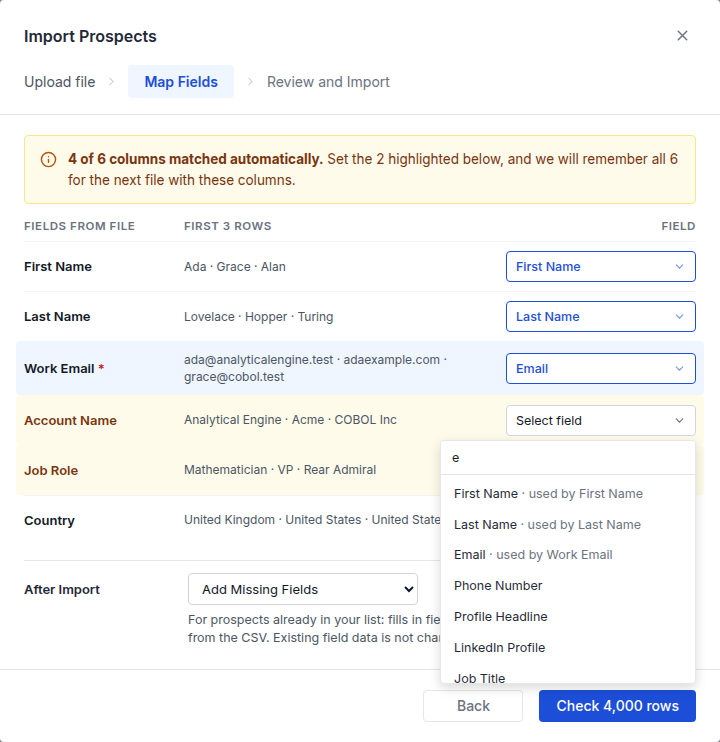
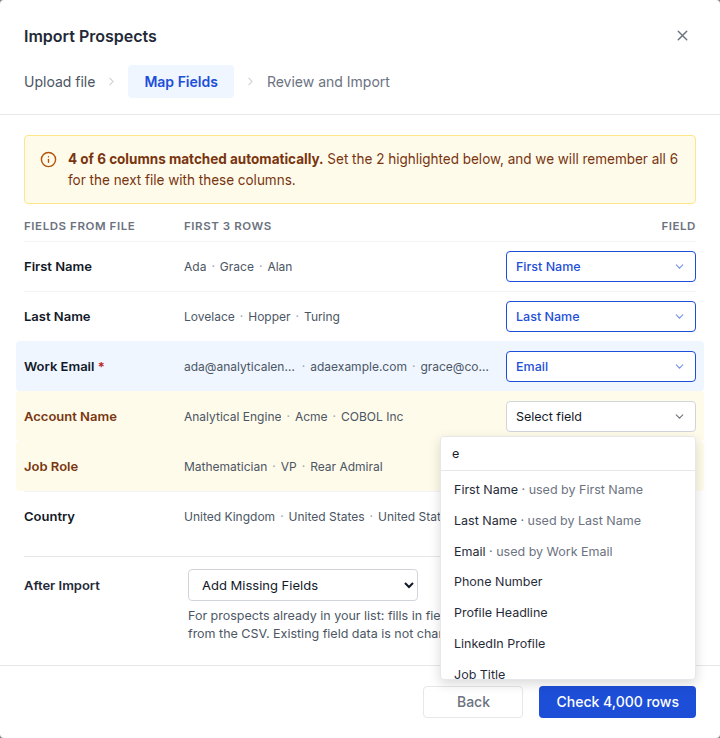
Map Fields: sample values stay on one line, each truncating on its own

diff --git a/index.html b/index.html
@@ -61,7 +61,7 @@ td{padding:9px 12px;border-bottom:1px solid var(--border);vertical-align:top}tr:
 <p>Exact copy for every state below: <a href="#copy-spec">COPY.md</a>, same section numbers; every string rendered on its surface in <a href="copy.html">copy.html</a>.</p>
 <p><strong>5.1 Upload.</strong> An accepted file shows as one line (name, rows, columns, Remove file) over its first 3 rows under the file's own headers, exactly as read, so the user sees the wrong file or a bad parse before mapping (Hitesh, 11 Nov). Values wider than a cell truncate, full value on hover; a table wider than the dialog scrolls sideways and the caption says so. A rejected file shows, centred in the drop zone, the file name, what is wrong and one sentence on the fix; the zone stays live for the fixed file (Hitesh, 11 Nov). Eleven kinds: Excel, other type or no extension, over 95 MB, over 100,000 rows, over 120 columns, no prospects, repeated column names, columns with no name, mixed separators, not UTF-8, unreadable. Messages carry only what the check knows: no row totals, header names or column positions. Next stays disabled; no toasts or "Oops!". The checks that today fail only after Import (mixed separators, leading empty line, upper-case <code>.CSV</code>) move here.</p>
 <div class="gal"><figure><a href="canvas/shots/u01.png" target="_blank" rel="noopener"><img src="canvas/shots/u01.png" alt="Upload" loading="lazy"></a><figcaption><b>Upload</b><span>Drop zone; Try sample file in the footer</span></figcaption></figure><figure><a href="canvas/shots/u02.png" target="_blank" rel="noopener"><img src="canvas/shots/u02.png" alt="File accepted" loading="lazy"></a><figcaption><b>File accepted</b><span>One file line, then its first 3 rows as read; Next enabled</span></figcaption></figure><figure><a href="canvas/shots/u03.png" target="_blank" rel="noopener"><img src="canvas/shots/u03.png" alt="Excel file" loading="lazy"></a><figcaption><b>Excel file</b><span>Says only what the check knows; the drop zone stays live</span></figcaption></figure><figure><a href="canvas/shots/u04.png" target="_blank" rel="noopener"><img src="canvas/shots/u04.png" alt="Wrong file type" loading="lazy"></a><figcaption><b>Wrong file type</b></figcaption></figure><figure><a href="canvas/shots/u05.png" target="_blank" rel="noopener"><img src="canvas/shots/u05.png" alt="Over 95 MB" loading="lazy"></a><figcaption><b>Over 95 MB</b></figcaption></figure><figure><a href="canvas/shots/u06.png" target="_blank" rel="noopener"><img src="canvas/shots/u06.png" alt="Over 100,000 rows" loading="lazy"></a><figcaption><b>Over 100,000 rows</b></figcaption></figure><figure><a href="canvas/shots/u07.png" target="_blank" rel="noopener"><img src="canvas/shots/u07.png" alt="Over 120 columns" loading="lazy"></a><figcaption><b>Over 120 columns</b></figcaption></figure><figure><a href="canvas/shots/u08.png" target="_blank" rel="noopener"><img src="canvas/shots/u08.png" alt="No prospects" loading="lazy"></a><figcaption><b>No prospects</b></figcaption></figure><figure><a href="canvas/shots/u09.png" target="_blank" rel="noopener"><img src="canvas/shots/u09.png" alt="Repeated column names" loading="lazy"></a><figcaption><b>Repeated column names</b></figcaption></figure><figure><a href="canvas/shots/u10.png" target="_blank" rel="noopener"><img src="canvas/shots/u10.png" alt="Columns with no name" loading="lazy"></a><figcaption><b>Columns with no name</b></figcaption></figure><figure><a href="canvas/shots/u11.png" target="_blank" rel="noopener"><img src="canvas/shots/u11.png" alt="Mixed separators" loading="lazy"></a><figcaption><b>Mixed separators</b></figcaption></figure><figure><a href="canvas/shots/u12.png" target="_blank" rel="noopener"><img src="canvas/shots/u12.png" alt="Not UTF-8" loading="lazy"></a><figcaption><b>Not UTF-8</b></figcaption></figure><figure><a href="canvas/shots/u13.png" target="_blank" rel="noopener"><img src="canvas/shots/u13.png" alt="Can’t be read" loading="lazy"></a><figcaption><b>Can’t be read</b></figcaption></figure><figure><a href="canvas/shots/u14.png" target="_blank" rel="noopener"><img src="canvas/shots/u14.png" alt="Fixed file brought back" loading="lazy"></a><figcaption><b>Fixed file brought back</b><span>Mapping restored; Check 280 rows skips Map Fields</span></figcaption></figure></div>
-<p><strong>5.2 Map Fields.</strong> Email required; if unmapped, say so and disable Next. After Import below the fields, production's four options verbatim. One column per field (picking a used field moves it and says so). Cancel, Esc or close keeps the mapping. The mapping is remembered by the set of headers, account-wide. Our three columns come back as Don't import.</p>
+<p><strong>5.2 Map Fields.</strong> Email required; if unmapped, say so and disable Next. After Import below the fields, production's four options verbatim. One column per field (picking a used field moves it and says so). Each column shows its first 3 values on one line: a long value truncates on its own, a value of 14 characters or fewer is never cut, and the full value shows on hover (Hitesh, 11 Nov). Cancel, Esc or close keeps the mapping. The mapping is remembered by the set of headers, account-wide. Our three columns come back as Don't import.</p>
 <div class="gal"><figure><a href="canvas/shots/m01.png" target="_blank" rel="noopener"><img src="canvas/shots/m01.png" alt="Columns to set" loading="lazy"></a><figcaption><b>Columns to set</b><span>Two columns highlighted; After Import below</span></figcaption></figure><figure><a href="canvas/shots/m02.png" target="_blank" rel="noopener"><img src="canvas/shots/m02.png" alt="Everything matched" loading="lazy"></a><figcaption><b>Everything matched</b><span>Nothing to set</span></figcaption></figure><figure><a href="canvas/shots/m03.png" target="_blank" rel="noopener"><img src="canvas/shots/m03.png" alt="Mapping restored" loading="lazy"></a><figcaption><b>Mapping restored</b><span>Same columns as last time; our three columns set to Don’t import</span></figcaption></figure><figure><a href="canvas/shots/m04.png" target="_blank" rel="noopener"><img src="canvas/shots/m04.png" alt="Field picker" loading="lazy"></a><figcaption><b>Field picker</b><span>Search, and fields already used by another column</span></figcaption></figure><figure><a href="canvas/shots/m05.png" target="_blank" rel="noopener"><img src="canvas/shots/m05.png" alt="A field moved" loading="lazy"></a><figcaption><b>A field moved</b><span>One column per field: the earlier column is set aside, and the screen says so</span></figcaption></figure><figure><a href="canvas/shots/m06.png" target="_blank" rel="noopener"><img src="canvas/shots/m06.png" alt="Email not mapped" loading="lazy"></a><figcaption><b>Email not mapped</b><span>Next disabled until a column is set to Email</span></figcaption></figure><figure><a href="canvas/shots/m07.png" target="_blank" rel="noopener"><img src="canvas/shots/m07.png" alt="No email column" loading="lazy"></a><figcaption><b>No email column</b><span>Said plainly; Next disabled</span></figcaption></figure><figure><a href="canvas/shots/m08.png" target="_blank" rel="noopener"><img src="canvas/shots/m08.png" alt="After Import: Update All Fields" loading="lazy"></a><figcaption><b>After Import: Update All Fields</b><span>Production label and text, shown under the select</span></figcaption></figure><figure><a href="canvas/shots/m09.png" target="_blank" rel="noopener"><img src="canvas/shots/m09.png" alt="After Import: Overwrite" loading="lazy"></a><figcaption><b>After Import: Overwrite</b></figcaption></figure><figure><a href="canvas/shots/m10.png" target="_blank" rel="noopener"><img src="canvas/shots/m10.png" alt="After Import: Skip Existing Prospects" loading="lazy"></a><figcaption><b>After Import: Skip Existing Prospects</b></figcaption></figure></div>
 <p><strong>5.3 Checking.</strong> Progress in rows; "Nothing has been imported yet"; one Cancel.</p>
 <div class="gal"><figure><a href="canvas/shots/c01.png" target="_blank" rel="noopener"><img src="canvas/shots/c01.png" alt="Checking every row" loading="lazy"></a><figcaption><b>Checking every row</b><span>Nothing imported yet; one Cancel</span></figcaption></figure></div>
@@ -79,7 +79,7 @@ td{padding:9px 12px;border-bottom:1px solid var(--border);vertical-align:top}tr:
 <p><strong>5.9 Bringing a file back.</strong> Headers match a confirmed mapping, every column decided, Email mapped: Upload says "Mapping restored" and Next becomes "Check {rows} rows", skipping Map Fields.</p>
 <div class="gal"><figure><a href="canvas/shots/u14.png" target="_blank" rel="noopener"><img src="canvas/shots/u14.png" alt="Fixed file brought back" loading="lazy"></a><figcaption><b>Fixed file brought back</b><span>Mapping restored; Check 280 rows skips Map Fields</span></figcaption></figure><figure><a href="canvas/shots/m03.png" target="_blank" rel="noopener"><img src="canvas/shots/m03.png" alt="Mapping restored" loading="lazy"></a><figcaption><b>Mapping restored</b><span>Same columns as last time; our three columns set to Don’t import</span></figcaption></figure></div>
 <h3 id="acceptance-criteria">Acceptance criteria</h3>
-<div class="tw"><table><thead><tr><th>ID</th><th>Case</th><th>Expected</th><th>P</th></tr></thead><tbody><tr><td>A1</td><td>Upload each of the 11 rejected kinds in COPY.md §5.1</td><td>Rejected in the drop zone with its §5.1 title and fix; no row total, header name or column letter appears; the zone accepts the next file; Next disabled; no toast</td><td>P0</td></tr><tr><td>A2</td><td>No column mapped to Email; a file with no email column</td><td>§5.2 message; Next disabled</td><td>P0</td></tr><tr><td>A3</td><td>4,000 rows: 220 no @, 40 blank, 20 two emails, 160 existing, 20 repeated</td><td>Review: 3,540 new; 160 existing with the option's outcome; 20 repeated; red row "280 rows need fixing" with three reasons; button "Import 3,540 new prospects"</td><td>P0</td></tr><tr><td>A4</td><td>A3 under each After Import option</td><td>Review, toast and bell use that option's words; 3 of the 160 read back in the list match it</td><td>P0</td></tr><tr><td>A5</td><td>Download from A3</td><td>280 lines; header <code>row_number,error,how_to_fix,</code> + original headers; only the 19 names; blank-email rows present; row numbers match Excel</td><td>P0</td></tr><tr><td>A6</td><td>Open A5 in LibreOffice with tab, <code>;</code> and <code>,</code> separators</td><td>Every row has the same column count</td><td>P0</td></tr><tr><td>A7</td><td>Upload A5 back, import under a plan limit, download again</td><td>Mapping restored; one set of our columns; original row numbers; name not doubled</td><td>P0</td></tr><tr><td>A8</td><td>Room for 2,500; A3's file</td><td>Review: plan row amber with Upgrade plan, fix row red. Import: 2,500 added; 1,040 "Over plan limit" lines, new prospects only, numbers within the file</td><td>P1</td></tr><tr><td>A9</td><td>Import fails; another import running; plan limit reached between Review and Import</td><td>Dialog stays on Review with the matching message; file and mapping kept; busy known before Import; nothing imported</td><td>P0</td></tr><tr><td>A10</td><td>Every row fails</td><td>"0 of {rows}"; Download primary, Upload fixed file on the left; dominant-reason hint over 50%</td><td>P1</td></tr><tr><td>A11</td><td>Credits short</td><td>Credit message with numbers; Import disabled until unticked or topped up; no link to change the 15 days</td><td>P1</td></tr><tr><td>A12</td><td>Force a batch to fail mid-import</td><td>Its rows in the file as "Didn't finish"; strip, bell and email count them</td><td>P0, <strong>sign off by name: Rajat</strong></td></tr><tr><td>A13</td><td>Invalid phone on a new prospect</td><td>Imported, phone blank, "Phone not valid" line</td><td>P1</td></tr><tr><td>A14</td><td>Sequence import: other sequence, bounced, unsubscribed, DNC</td><td>Each in the file under errors 13 to 18</td><td>P1</td></tr><tr><td>A15</td><td>Email for a partial and a fully failed import</td><td>Real counts; never "Congratulations"</td><td>P1</td></tr><tr><td>A16</td><td>Keyboard only through the wizard</td><td>§7 rules hold; failures and the strip are announced</td><td>P1</td></tr><tr><td>A17</td><td>390px wide</td><td>Map rows stack; no sideways scroll; footer buttons full width, primary last; toast never covers the footer</td><td>P1</td></tr><tr><td>A18</td><td>Every footer at 1440px</td><td>Gray secondary left of primary, 16px apart; Back on Map and Review, Cancel on Upload</td><td>P2</td></tr><tr><td>A19</td><td>Map two columns to Email</td><td>Second pick moves it and says so</td><td>P1</td></tr><tr><td>A20</td><td>Sequence import with a call and a LinkedIn step, no phone or LinkedIn column</td><td>Map Fields warns naming both fields and steps; Next stays enabled; mapping a phone column drops the call step from the warning; Review shows no unmapped-field row</td><td>P1</td></tr><tr><td>A21</td><td>Sequence import, prospects in another sequence, admin setting off</td><td>Counted on Review before Import; "In another sequence" in the file; toast counts only those added</td><td>P0</td></tr><tr><td>A22</td><td>Upload the fixed file from A5</td><td>"Mapping restored"; "Check {rows} rows" lands on Review without Map Fields</td><td>P1</td></tr><tr><td>A23</td><td>Upload a valid 6-column and an 18-column file</td><td>One file line, then the first 3 rows under the file's headers as read; long values truncate with the full value on hover; "scroll sideways" shows only when the table is wider than the dialog</td><td>P1</td></tr></tbody></table></div>
+<div class="tw"><table><thead><tr><th>ID</th><th>Case</th><th>Expected</th><th>P</th></tr></thead><tbody><tr><td>A1</td><td>Upload each of the 11 rejected kinds in COPY.md §5.1</td><td>Rejected in the drop zone with its §5.1 title and fix; no row total, header name or column letter appears; the zone accepts the next file; Next disabled; no toast</td><td>P0</td></tr><tr><td>A2</td><td>No column mapped to Email; a file with no email column</td><td>§5.2 message; Next disabled</td><td>P0</td></tr><tr><td>A3</td><td>4,000 rows: 220 no @, 40 blank, 20 two emails, 160 existing, 20 repeated</td><td>Review: 3,540 new; 160 existing with the option's outcome; 20 repeated; red row "280 rows need fixing" with three reasons; button "Import 3,540 new prospects"</td><td>P0</td></tr><tr><td>A4</td><td>A3 under each After Import option</td><td>Review, toast and bell use that option's words; 3 of the 160 read back in the list match it</td><td>P0</td></tr><tr><td>A5</td><td>Download from A3</td><td>280 lines; header <code>row_number,error,how_to_fix,</code> + original headers; only the 19 names; blank-email rows present; row numbers match Excel</td><td>P0</td></tr><tr><td>A6</td><td>Open A5 in LibreOffice with tab, <code>;</code> and <code>,</code> separators</td><td>Every row has the same column count</td><td>P0</td></tr><tr><td>A7</td><td>Upload A5 back, import under a plan limit, download again</td><td>Mapping restored; one set of our columns; original row numbers; name not doubled</td><td>P0</td></tr><tr><td>A8</td><td>Room for 2,500; A3's file</td><td>Review: plan row amber with Upgrade plan, fix row red. Import: 2,500 added; 1,040 "Over plan limit" lines, new prospects only, numbers within the file</td><td>P1</td></tr><tr><td>A9</td><td>Import fails; another import running; plan limit reached between Review and Import</td><td>Dialog stays on Review with the matching message; file and mapping kept; busy known before Import; nothing imported</td><td>P0</td></tr><tr><td>A10</td><td>Every row fails</td><td>"0 of {rows}"; Download primary, Upload fixed file on the left; dominant-reason hint over 50%</td><td>P1</td></tr><tr><td>A11</td><td>Credits short</td><td>Credit message with numbers; Import disabled until unticked or topped up; no link to change the 15 days</td><td>P1</td></tr><tr><td>A12</td><td>Force a batch to fail mid-import</td><td>Its rows in the file as "Didn't finish"; strip, bell and email count them</td><td>P0, <strong>sign off by name: Rajat</strong></td></tr><tr><td>A13</td><td>Invalid phone on a new prospect</td><td>Imported, phone blank, "Phone not valid" line</td><td>P1</td></tr><tr><td>A14</td><td>Sequence import: other sequence, bounced, unsubscribed, DNC</td><td>Each in the file under errors 13 to 18</td><td>P1</td></tr><tr><td>A15</td><td>Email for a partial and a fully failed import</td><td>Real counts; never "Congratulations"</td><td>P1</td></tr><tr><td>A16</td><td>Keyboard only through the wizard</td><td>§7 rules hold; failures and the strip are announced</td><td>P1</td></tr><tr><td>A17</td><td>390px wide</td><td>Map rows stack; no sideways scroll; footer buttons full width, primary last; toast never covers the footer</td><td>P1</td></tr><tr><td>A18</td><td>Every footer at 1440px</td><td>Gray secondary left of primary, 16px apart; Back on Map and Review, Cancel on Upload</td><td>P2</td></tr><tr><td>A19</td><td>Map two columns to Email</td><td>Second pick moves it and says so</td><td>P1</td></tr><tr><td>A20</td><td>Sequence import with a call and a LinkedIn step, no phone or LinkedIn column</td><td>Map Fields warns naming both fields and steps; Next stays enabled; mapping a phone column drops the call step from the warning; Review shows no unmapped-field row</td><td>P1</td></tr><tr><td>A21</td><td>Sequence import, prospects in another sequence, admin setting off</td><td>Counted on Review before Import; "In another sequence" in the file; toast counts only those added</td><td>P0</td></tr><tr><td>A22</td><td>Upload the fixed file from A5</td><td>"Mapping restored"; "Check {rows} rows" lands on Review without Map Fields</td><td>P1</td></tr><tr><td>A23</td><td>Upload a valid 6-column and an 18-column file</td><td>One file line, then the first 3 rows under the file's headers as read; long values truncate with the full value on hover; "scroll sideways" shows only when the table is wider than the dialog</td><td>P1</td></tr><tr><td>A24</td><td>Map a file whose first rows hold a 70-character company name and a 120-character note</td><td>Every column row stays one line; long values end in "…", values of 14 characters or fewer are whole; hovering a value shows it in full</td><td>P2</td></tr></tbody></table></div>
 <h2 id="6-reconciliation-with-existing-behaviour">6. Reconciliation with existing behaviour</h2>
 <div class="tw"><table><thead><tr><th>Path</th><th>Today</th><th>After</th></tr></thead><tbody><tr><td>CRM list › Import CSV (<code>/contacts/import-async</code>)</td><td>Two-column report</td><td>This PRD</td></tr><tr><td>Sequence › Import via CSV (<code>/contacts/sequence-async/:stepId</code>)</td><td>Same report, picker on Map Fields</td><td>This PRD, §5.8</td></tr><tr><td>Public API import</td><td>7 reasons have no status code; <code>status</code> comes back undefined (<a href="https://github.com/saleshandy/saleshandy-open-api-gateway/blob/3561cf80b480bb48cf0670c22a9c7f977012a4fc/src/common/enums/prospect-import-failed-reason.ts#L1">gateway</a>)</td><td>Add the missing codes; copy out of scope</td></tr><tr><td>Lead Finder bulk add</td><td>Shares the import service</td><td>Must not change</td></tr></tbody></table></div>
 <ul><li><strong>Overwrite</strong> writes only fields the prospect already has; production's description says so and stays verbatim. No behaviour change.</li><li>Repeats are caught only within a 1,000-row chunk (<a href="https://github.com/saleshandy/saleshandy-background-jobs/blob/7d18274f935ac261db9fa538aa3afe3d72d6894c/src/contacts/services/contacts-import.service.ts#L2534">L2534</a>); the import must match the pre-import check over the whole file, or counts drift.</li></ul>

diff --git a/prototype/index.html b/prototype/index.html
@@ -119,7 +119,10 @@ table.crm td{padding:11px 24px;border-bottom:1px solid var(--g-100);color:var(--
 .maprow.req{background:var(--blue-50);margin:0 -8px;padding-left:8px;padding-right:8px;border-radius:var(--r-input);border-top-color:transparent}
 .maprow.bad{background:var(--red-50);margin:0 -8px;padding-left:8px;padding-right:8px;border-radius:var(--r-input);border-top-color:transparent}
 .maprow .f{flex:0 0 150px;font-size:13px;font-weight:600}
-.maprow .s{flex:1;font-size:12px;color:var(--g-600);line-height:1.45;word-break:break-word}
+.maprow .s{flex:1;min-width:0;display:flex;font-size:12px;color:var(--g-600);line-height:1.45;white-space:nowrap}
+/* Long sample values (Hitesh, 11 Nov): one line per row; each value truncates on its own, values of 14 characters or fewer are never cut; full value on hover. */
+.maprow .s .v{flex:0 1 auto;min-width:0;max-width:55%;overflow:hidden;text-overflow:ellipsis}.maprow .s .v.k{flex-shrink:0}
+.maprow .s .d{flex:0 0 auto;padding:0 5px;color:var(--g-400)}
 .maprow select{flex:0 0 138px;font-family:inherit;font-size:12.5px;padding:7px 8px;border:1px solid var(--g-300);border-radius:var(--r-input);background:#fff;color:var(--g-900)}
 .maprow select.set{border-color:var(--blue-700);color:var(--blue-700);font-weight:500}
 .maprow select.err{border-color:var(--red-700);color:var(--red-700)}
@@ -1079,7 +1082,7 @@ function scMap(){
     var isEmail = S.map[c]==='Email';
     var cls = 'maprow'+(isEmail?' req':(todo.indexOf(c)>-1?' todo':''));
     return '<div class="'+cls+'"><span class="f">'+esc(c)+(isEmail?' <span style="color:var(--red-700)">*</span>':'')+'</span>'+
-      '<span class="s">'+d.samples[i].map(esc).join(' &middot; ')+'</span>'+fpick(c,i)+'</div>';
+      '<span class="s">'+d.samples[i].map(function(v){ v=v==null?'':String(v); return '<span class="v'+(v.length<=14?' k':'')+'" title="'+esc(v)+'">'+esc(v)+'</span>'; }).join('<span class="d" aria-hidden="true">·</span>')+'</span>'+fpick(c,i)+'</div>';
   }).join('');
 
   /* The header line is the whole point of this step: say how much is already

diff --git a/copy.html b/copy.html
@@ -116,7 +116,10 @@ table.crm td{padding:11px 24px;border-bottom:1px solid var(--g-100);color:var(--
 .maprow.req{background:var(--blue-50);margin:0 -8px;padding-left:8px;padding-right:8px;border-radius:var(--r-input);border-top-color:transparent}
 .maprow.bad{background:var(--red-50);margin:0 -8px;padding-left:8px;padding-right:8px;border-radius:var(--r-input);border-top-color:transparent}
 .maprow .f{flex:0 0 150px;font-size:13px;font-weight:600}
-.maprow .s{flex:1;font-size:12px;color:var(--g-600);line-height:1.45;word-break:break-word}
+.maprow .s{flex:1;min-width:0;display:flex;font-size:12px;color:var(--g-600);line-height:1.45;white-space:nowrap}
+/* Long sample values (Hitesh, 11 Nov): one line per row; each value truncates on its own, values of 14 characters or fewer are never cut; full value on hover. */
+.maprow .s .v{flex:0 1 auto;min-width:0;max-width:55%;overflow:hidden;text-overflow:ellipsis}.maprow .s .v.k{flex-shrink:0}
+.maprow .s .d{flex:0 0 auto;padding:0 5px;color:var(--g-400)}
 .maprow select{flex:0 0 138px;font-family:inherit;font-size:12.5px;padding:7px 8px;border:1px solid var(--g-300);border-radius:var(--r-input);background:#fff;color:var(--g-900)}
 .maprow select.set{border-color:var(--blue-700);color:var(--blue-700);font-weight:500}
 .maprow select.err{border-color:var(--red-700);color:var(--red-700)}

diff --git a/PRD.md b/PRD.md
@@ -51,7 +51,7 @@ Exact copy for every state below: [COPY.md](COPY.md), same section numbers; ever
 
 <table><tr><td valign="top" width="33%"><a href="canvas/shots/u01.png"><img src="canvas/shots/u01.png" width="260"></a><br><sub><b>Upload</b>. Drop zone; Try sample file in the footer</sub></td><td valign="top" width="33%"><a href="canvas/shots/u02.png"><img src="canvas/shots/u02.png" width="260"></a><br><sub><b>File accepted</b>. One file line, then its first 3 rows as read; Next enabled</sub></td><td valign="top" width="33%"><a href="canvas/shots/u03.png"><img src="canvas/shots/u03.png" width="260"></a><br><sub><b>Excel file</b>. Says only what the check knows; the drop zone stays live</sub></td></tr><tr><td valign="top" width="33%"><a href="canvas/shots/u04.png"><img src="canvas/shots/u04.png" width="260"></a><br><sub><b>Wrong file type</b>. Says only what the check knows; the drop zone stays live</sub></td><td valign="top" width="33%"><a href="canvas/shots/u05.png"><img src="canvas/shots/u05.png" width="260"></a><br><sub><b>Over 95 MB</b>. Says only what the check knows; the drop zone stays live</sub></td><td valign="top" width="33%"><a href="canvas/shots/u06.png"><img src="canvas/shots/u06.png" width="260"></a><br><sub><b>Over 100,000 rows</b>. Says only what the check knows; the drop zone stays live</sub></td></tr><tr><td valign="top" width="33%"><a href="canvas/shots/u07.png"><img src="canvas/shots/u07.png" width="260"></a><br><sub><b>Over 120 columns</b>. Says only what the check knows; the drop zone stays live</sub></td><td valign="top" width="33%"><a href="canvas/shots/u08.png"><img src="canvas/shots/u08.png" width="260"></a><br><sub><b>No prospects</b>. Says only what the check knows; the drop zone stays live</sub></td><td valign="top" width="33%"><a href="canvas/shots/u09.png"><img src="canvas/shots/u09.png" width="260"></a><br><sub><b>Repeated column names</b>. Says only what the check knows; the drop zone stays live</sub></td></tr><tr><td valign="top" width="33%"><a href="canvas/shots/u10.png"><img src="canvas/shots/u10.png" width="260"></a><br><sub><b>Columns with no name</b>. Says only what the check knows; the drop zone stays live</sub></td><td valign="top" width="33%"><a href="canvas/shots/u11.png"><img src="canvas/shots/u11.png" width="260"></a><br><sub><b>Mixed separators</b>. Says only what the check knows; the drop zone stays live</sub></td><td valign="top" width="33%"><a href="canvas/shots/u12.png"><img src="canvas/shots/u12.png" width="260"></a><br><sub><b>Not UTF-8</b>. Says only what the check knows; the drop zone stays live</sub></td></tr><tr><td valign="top" width="33%"><a href="canvas/shots/u13.png"><img src="canvas/shots/u13.png" width="260"></a><br><sub><b>Can’t be read</b>. Says only what the check knows; the drop zone stays live</sub></td><td valign="top" width="33%"><a href="canvas/shots/u14.png"><img src="canvas/shots/u14.png" width="260"></a><br><sub><b>Fixed file brought back</b>. Mapping restored; Check 280 rows skips Map Fields</sub></td></tr></table>
 
-**5.2 Map Fields.** Email required; if unmapped, say so and disable Next. After Import below the fields, production's four options verbatim. One column per field (picking a used field moves it and says so). Cancel, Esc or close keeps the mapping. The mapping is remembered by the set of headers, account-wide. Our three columns come back as Don't import.
+**5.2 Map Fields.** Email required; if unmapped, say so and disable Next. After Import below the fields, production's four options verbatim. One column per field (picking a used field moves it and says so). Each column shows its first 3 values on one line: a long value truncates on its own, a value of 14 characters or fewer is never cut, and the full value shows on hover (Hitesh, 11 Nov). Cancel, Esc or close keeps the mapping. The mapping is remembered by the set of headers, account-wide. Our three columns come back as Don't import.
 
 <table><tr><td valign="top" width="33%"><a href="canvas/shots/m01.png"><img src="canvas/shots/m01.png" width="260"></a><br><sub><b>Columns to set</b>. Two columns highlighted; After Import below</sub></td><td valign="top" width="33%"><a href="canvas/shots/m02.png"><img src="canvas/shots/m02.png" width="260"></a><br><sub><b>Everything matched</b>. Nothing to set</sub></td><td valign="top" width="33%"><a href="canvas/shots/m03.png"><img src="canvas/shots/m03.png" width="260"></a><br><sub><b>Mapping restored</b>. Same columns as last time; our three columns set to Don’t import</sub></td></tr><tr><td valign="top" width="33%"><a href="canvas/shots/m04.png"><img src="canvas/shots/m04.png" width="260"></a><br><sub><b>Field picker</b>. Search, and fields already used by another column</sub></td><td valign="top" width="33%"><a href="canvas/shots/m05.png"><img src="canvas/shots/m05.png" width="260"></a><br><sub><b>A field moved</b>. One column per field: the earlier column is set aside, and the screen says so</sub></td><td valign="top" width="33%"><a href="canvas/shots/m06.png"><img src="canvas/shots/m06.png" width="260"></a><br><sub><b>Email not mapped</b>. Next disabled until a column is set to Email</sub></td></tr><tr><td valign="top" width="33%"><a href="canvas/shots/m07.png"><img src="canvas/shots/m07.png" width="260"></a><br><sub><b>No email column</b>. Said plainly; Next disabled</sub></td><td valign="top" width="33%"><a href="canvas/shots/m08.png"><img src="canvas/shots/m08.png" width="260"></a><br><sub><b>After Import: Update All Fields</b>. Production label and text, shown under the select</sub></td><td valign="top" width="33%"><a href="canvas/shots/m09.png"><img src="canvas/shots/m09.png" width="260"></a><br><sub><b>After Import: Overwrite</b>. Production label and text, shown under the select</sub></td></tr><tr><td valign="top" width="33%"><a href="canvas/shots/m10.png"><img src="canvas/shots/m10.png" width="260"></a><br><sub><b>After Import: Skip Existing Prospects</b>. Production label and text, shown under the select</sub></td></tr></table>
 
@@ -116,6 +116,7 @@ Exact copy for every state below: [COPY.md](COPY.md), same section numbers; ever
 | A21 | Sequence import, prospects in another sequence, admin setting off | Counted on Review before Import; "In another sequence" in the file; toast counts only those added | P0 |
 | A22 | Upload the fixed file from A5 | "Mapping restored"; "Check {rows} rows" lands on Review without Map Fields | P1 |
 | A23 | Upload a valid 6-column and an 18-column file | One file line, then the first 3 rows under the file's headers as read; long values truncate with the full value on hover; "scroll sideways" shows only when the table is wider than the dialog | P1 |
+| A24 | Map a file whose first rows hold a 70-character company name and a 120-character note | Every column row stays one line; long values end in "…", values of 14 characters or fewer are whole; hovering a value shows it in full | P2 |
 
 ## 6. Reconciliation with existing behaviour
 
